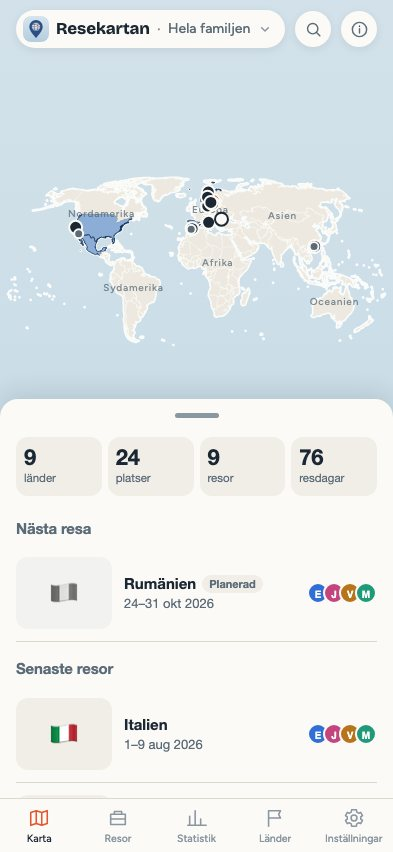
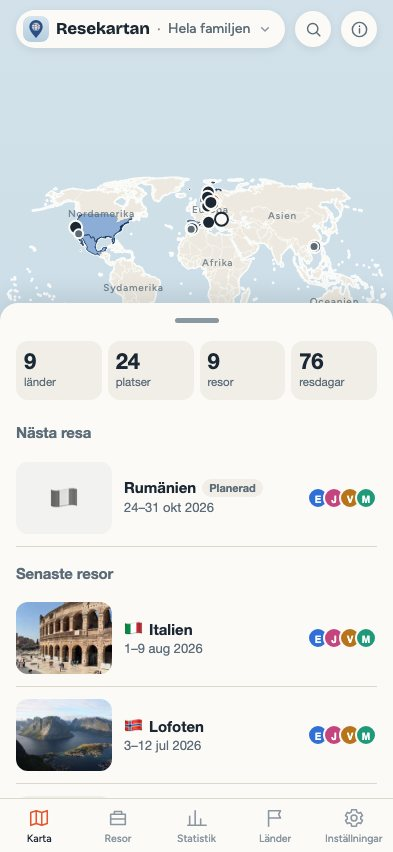
Foton i skärmdumparna, och bilderna var ihoptryckta
img saknade height:auto. Bredden begränsades av max-width medan
höjdattributet fortfarande gällde, så skärmdumparna blev hoptryckta på
bredden och utdragna på höjden – tydligast på telefon.

Skärmdumpsskriptet tar nu en mapp med en undermapp per resa och lägger
bilderna i lagringslagret, inte bara i phCache: showTrip() anropar
loadPhotos(), som annars skrev över dem med det tomma svaret från
IndexedDB och lät syncThumb() radera omslaget på köpet. Herobildens
slutläge sätts för hand, eftersom skarpHero() väntar på decode() och den
promisen inte drivs av den virtuella tiden.

Sidan har fått ett avsnitt om galleriet, och kartbilden visar nu två
resor med omslag.

Claude-Session: https://claude.ai/code/session_01Wu3cv2xDEr3HrUYMerHgDB

diff --git a/om/index.html b/om/index.html
@@ -25,7 +25,10 @@ html{-webkit-text-size-adjust:100%}
 body{margin:0;background:var(--yta);color:var(--text);
   font:400 17px/1.6 Figtree,-apple-system,BlinkMacSystemFont,"Segoe UI",system-ui,sans-serif}
 h1,h2,.stor{font-family:"Bricolage Grotesque",Figtree,sans-serif;font-weight:700;letter-spacing:-.02em;line-height:1.1}
-img{max-width:100%;display:block}
+/* height:auto är inte valfritt. Utan den gäller höjdattributet på bilden medan
+   bredden begränsas av max-width, och skärmdumparna blev hoptryckta på bredden
+   och utdragna på höjden. */
+img{max-width:100%;height:auto;display:block}
 a{color:var(--accent)}
 
 .inre{max-width:1000px;margin:0 auto;padding:0 22px}
@@ -133,18 +136,29 @@ footer a{color:var(--text-2)}
       <p>Datum, alla orter, vilka som var med och ett minne från resan. Avstickare över en
         gräns räknas som eget land men syns att de hörde till huvudresan.</p>
       <ul class="punkter">
-        <li><b>Bilder per resa</b> – omslaget syns i listorna, nyp för att zooma, svep ned för att stänga</li>
-        <li><b>Filtrera på vem som helst</b> – Hedvigs karta ser inte ut som Arons</li>
+        <li><b>Filtrera på vem som helst</b> – ett barns karta ser inte ut som ett annats</li>
+        <li><b>Avstickare</b> över en gräns räknas som eget land men hör synligt till huvudresan</li>
         <li><b>Planerade resor</b> syns på kartan men räknas inte i statistiken förrän ni varit där</li>
       </ul>
     </div>
     <div class="bild"><img src="bilder/resa.jpg" width="393" height="852" loading="lazy"
-      alt="Resan Italien med datum, orter, resenärer och ett minne från resan"></div>
+      alt="Resan Italien med omslagsbild på Colosseum, datum, orter, resenärer och ett minne från resan"></div>
   </section>
 
   <section class="rad vand">
-    <div class="bild"><img src="bilder/stat.jpg" width="393" height="852" loading="lazy"
-      alt="Statistik med antal länder, platser, resor och resdagar, länder per person och längst hemifrån"></div>
+    <div class="bild"><img src="bilder/galleri.jpg" width="393" height="852" loading="lazy"
+      alt="Bildgalleriet för Italien med sex foton, det första märkt som omslag"></div>
+    <div class="text">
+      <h2>Bilderna hör till resan</h2>
+      <p>Lägg in favoriterna direkt i resan. Den första blir omslaget och syns i listorna –
+        dra i rutorna för att byta. Tryck på en bild så fyller den skärmen: nyp för att
+        zooma, svep i sidled för att bläddra, svep ned för att stänga.</p>
+      <p>Bilderna krymps innan de sparas, så tjugo foton från en resa laddar några hundra
+        kilobyte i stället för flera megabyte.</p>
+    </div>
+  </section>
+
+  <section class="rad">
     <div class="text">
       <h2>Siffrorna man vill ha</h2>
       <p>Hur många länder, hur många dagar på resande fot, vem som varit flest ställen –
@@ -152,6 +166,8 @@ footer a{color:var(--text-2)}
       <p>Resdagar räknas som kalenderdagar, så en resa över nyår hamnar på rätt år och två
         halvor av familjen på var sitt håll blir en vecka borta, inte två.</p>
     </div>
+    <div class="bild"><img src="bilder/stat.jpg" width="393" height="852" loading="lazy"
+      alt="Statistik med antal länder, platser, resor och resdagar, länder per person och längst hemifrån"></div>
   </section>
 
   <section class="rad ensam">
